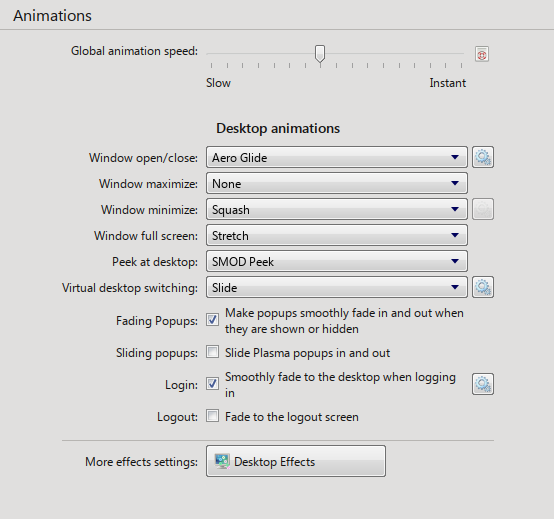
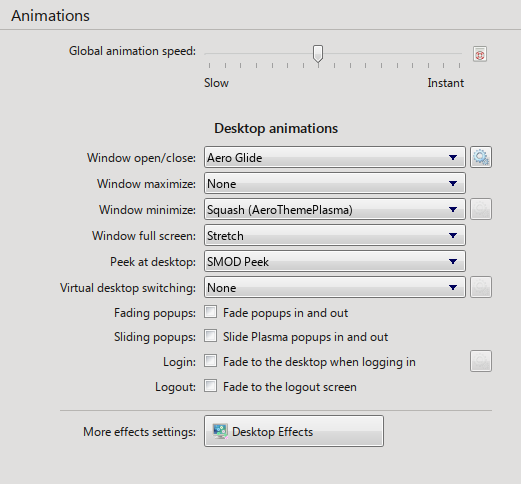
Rename KWin effects, update INSTALL.md

diff --git a/INSTALL.md b/INSTALL.md
@@ -223,19 +223,13 @@ $ chmod +x add_rule.sh && ./add_rule.sh
   - Alternative: Flip 3D, Forward shortcut: Meta+Tab
 - In Window Behavior -> KWin Scripts:
   - Enable Minimize All, SMOD Peek (**Wayland users should keep SMOD Peek disabled as it doesn't work and can cause freezing**)
-- In Window Behavior -> Desktop Effects, enable the following:
-  - Aero Glass Blur
-  - Desaturate Unresponsive Applications
-  - SMOD Glow 
-  - SMOD Snap
-  - Dim Screen for Administrator Mode
-  - Animations for SevenTasks Thumbnails
+- In Window Behavior -> Desktop Effects, enable **all** effects in the AeroThemePlasma category. Additionally enable the "Desaturate Unresponsive Applications" effect.
 - In Window Behavior -> Desktop Effects, **disable** the following:
   - Background Contrast
   - Blur
-  - Maximize
   - Dialog Parent
   - Dim Inactive
+  - Dim Screen for Administrator Mode (From Focus category)
   
 5. Configure KWin animations to the following:
 
